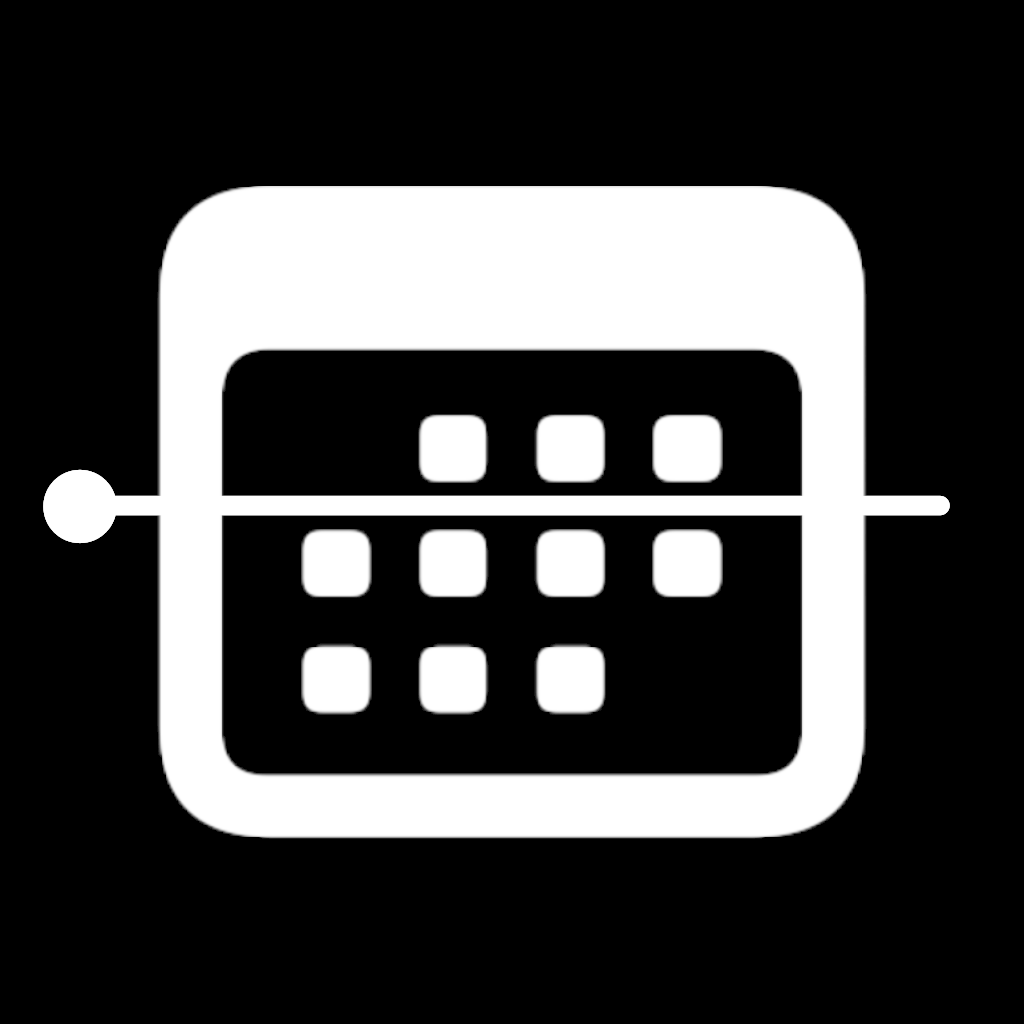
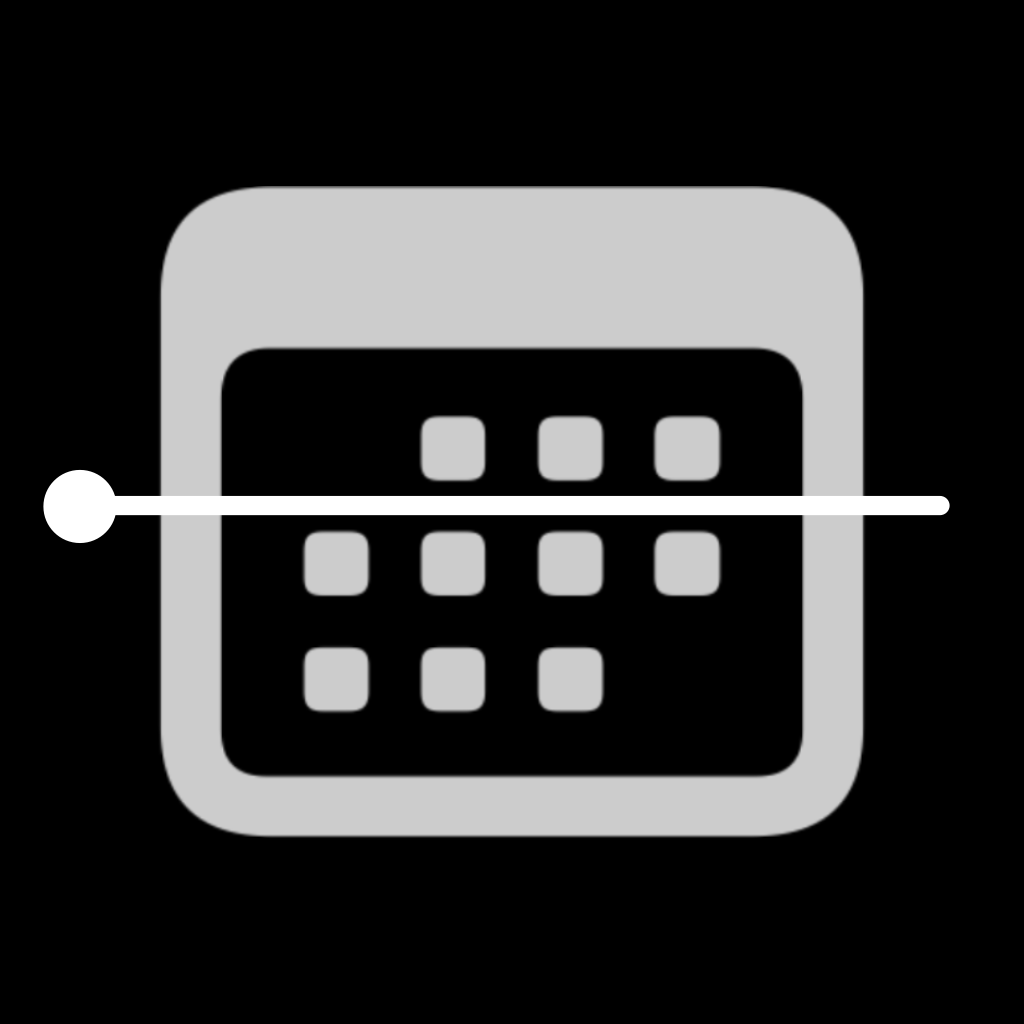
Allow days that cross midnight and align all-day chips with hour labels
- Day end earlier than day start now means the next day (e.g. 9:00 to
  2:00); only equal start and end are rejected. The night tail still
  belongs to the previous day, and events are fetched up to day end
- Columns fall back to minute boundaries when the day has fewer hours
  than columns
- All-day chips start flush with two-digit hour labels; content shifts
  left so the chip inset matches the top inset
- In Double Today the cursor dot sits a third of a label width further
  right
- New tinted iOS icon with translucency

diff --git a/Widget/TodayCalendarWidgetExtension.swift b/Widget/TodayCalendarWidgetExtension.swift
@@ -12,6 +12,9 @@ struct DayEntry: TimelineEntry {
     /// Когда виджет последний раз прочитал календарь (nil — данные-заглушка).
     var fetchedAt: Date? = nil
 
+    /// Начало суток, которые показывает виджет (с учётом дня, заходящего за полночь).
+    var anchor: Date { config.anchor(for: date) }
+
     /// События, которые видны в момент `date`: без all-day, если они скрыты,
     /// и без прошедших из «скрываемых» календарей.
     var visibleEvents: [DayEvent] {
@@ -31,7 +34,7 @@ struct Provider: AppIntentTimelineProvider {
         let now = Date()
         let config = configuration.dayConfig
         if CalendarData.hasAccess {
-            let events = CalendarData.todayEvents(store: EKEventStore(), now: now, calendarIDs: config.calendarIDs)
+            let events = Self.events(config: config, now: now)
             return DayEntry(date: now, events: events, hasAccess: true, config: config, fetchedAt: now)
         }
         return DayEntry(date: now, events: SampleData.events, hasAccess: context.isPreview, config: config)
@@ -44,9 +47,10 @@ struct Provider: AppIntentTimelineProvider {
         let cal = Calendar.current
         let config = configuration.dayConfig
         let hasAccess = CalendarData.hasAccess
-        let events = hasAccess ? CalendarData.todayEvents(store: EKEventStore(), now: now, calendarIDs: config.calendarIDs) : []
+        let events = hasAccess ? Self.events(config: config, now: now) : []
         let minuteStart = cal.dateInterval(of: .minute, for: now)?.start ?? now
-        let nextDay = cal.date(byAdding: .day, value: 1, to: cal.startOfDay(for: now))!
+        // Следующие сутки начинаются, когда закончились текущие (с ночным хвостом).
+        let nextDay = config.fetchRange(anchor: config.anchor(for: now)).to
 
         var entries = [DayEntry(date: now, events: events, hasAccess: hasAccess, config: config, fetchedAt: now)]
         for i in 1...60 {
@@ -56,6 +60,13 @@ struct Provider: AppIntentTimelineProvider {
         }
         let reloadAt = min(now.addingTimeInterval(15 * 60), nextDay)
         return Timeline(entries: entries, policy: .after(reloadAt))
+    }
+
+    private static func events(config: DayConfig, now: Date) -> [DayEvent] {
+        let anchor = config.anchor(for: now)
+        let range = config.fetchRange(anchor: anchor)
+        return CalendarData.events(store: EKEventStore(), anchor: anchor, from: range.from, to: range.to,
+                                   calendarIDs: config.calendarIDs)
     }
 }
 
@@ -76,10 +87,12 @@ struct PlacedEvent: Identifiable {
 
 enum Layout {
     static let columnSpacing: CGFloat = 14
+    /// Где начинается видимая часть двузначной подписи часа (10 pt, правый край на 16 pt)
+    /// относительно левого края колонки. По ней выравниваются all-day плашки.
+    static let labelInset: CGFloat = 3.7
+    /// Видимая ширина двузначной подписи часа.
+    static let labelWidth: CGFloat = 11.5
 
-    static func date(hour: Int, on day: Date) -> Date {
-        Calendar.current.date(byAdding: .hour, value: hour, to: Calendar.current.startOfDay(for: day))!
-    }
 
     /// Раскладывает события колонки по дорожкам, чтобы пересекающиеся стояли рядом.
     static func place(_ events: [DayEvent], from: Date, to: Date) -> [PlacedEvent] {
@@ -158,7 +171,9 @@ struct DayView: View {
                         if idx == 0 {
                             AllDayList(events: entry.visibleEvents.filter(\.isAllDay), config: entry.config, mode: renderingMode)
                         }
-                        ColumnView(entry: entry, startHour: col.start, endHour: col.end, mode: renderingMode)
+                        // В двух колонках кружок курсора чуть правее — на треть ширины подписи часа.
+                        ColumnView(entry: entry, startMinute: col.start, endMinute: col.end, mode: renderingMode,
+                                   cursorX: columnCount == 2 ? -5 + Layout.labelWidth / 3 : -5)
                         // Под концом дня — давность последней синхронизации; последняя колонка сжимается.
                         // Подпись стоит у самого низа контента, от линии конца дня её отделяет тот же отступ.
                         if showsSync, let fetchedAt = staleSince {
@@ -172,6 +187,8 @@ struct DayView: View {
                     .frame(maxWidth: .infinity, maxHeight: .infinity, alignment: .top)
                 }
             }
+            // Контент сдвинут влево, чтобы отступ слева до плашек равнялся отступу сверху.
+            .padding(.leading, -Layout.labelInset)
         }
     }
 }
@@ -258,20 +275,23 @@ struct AllDayList: View {
                 }
             }
             .padding(.bottom, 12)
+            // Левый край плашек — вровень с двузначными цифрами часов.
+            .padding(.leading, Layout.labelInset)
         }
     }
 }
 
 struct ColumnView: View {
     let entry: DayEntry
-    let startHour: Int
-    let endHour: Int
+    /// Границы колонки в минутах от начала суток (могут заходить на следующие сутки).
+    let startMinute: Int
+    let endMinute: Int
     let mode: WidgetRenderingMode
+    /// Центр кружка курсора относительно левого края колонки (левее цифр часов).
+    let cursorX: CGFloat
 
     private let gutter: CGFloat = 20
     private let labelHeight: CGFloat = 12
-    /// Центр кружка курсора относительно левого края колонки (левее цифр часов).
-    private let cursorX: CGFloat = -5
     private let cursorDot: CGFloat = 9
     /// На сколько перенесённое событие заходит за границу колонки — до края цифр часа.
     private let overshoot: CGFloat = 7
@@ -285,8 +305,8 @@ struct ColumnView: View {
 
     var body: some View {
         GeometryReader { geo in
-            let from = Layout.date(hour: startHour, on: entry.date)
-            let to = Layout.date(hour: endHour, on: entry.date)
+            let from = DayConfig.date(minute: startMinute, anchor: entry.anchor)
+            let to = DayConfig.date(minute: endMinute, anchor: entry.anchor)
             // Сверху оставляем место под подпись первого часа.
             let top = labelHeight / 2
             let height = max(geo.size.height - top - 1, 1)
@@ -296,8 +316,8 @@ struct ColumnView: View {
 
             ZStack(alignment: .topLeading) {
                 // Часовая сетка
-                ForEach(startHour...endHour, id: \.self) { h in
-                    let yy = top + CGFloat(h - startHour) / CGFloat(endHour - startHour) * height
+                ForEach(Array(stride(from: (startMinute + 59) / 60, through: endMinute / 60, by: 1)), id: \.self) { h in
+                    let yy = top + CGFloat(h * 60 - startMinute) / CGFloat(endMinute - startMinute) * height
                     Text("\(h % 24)")
                         .font(.system(size: 10, weight: .semibold).monospacedDigit())
                         .foregroundStyle(labelStyle)

diff --git a/Shared/CalendarData.swift b/Shared/CalendarData.swift
@@ -1,9 +1,10 @@
 import EventKit
 import Foundation
 
-/// Настройки отображения дня (часы, 24 = полночь).
+/// Настройки отображения дня.
 struct DayConfig {
-    /// Границы таймлайна; колонки делят этот промежуток поровну.
+    /// Границы таймлайна в часах (0...24); колонки делят этот промежуток поровну.
+    /// Конец раньше начала означает следующие сутки: 9 → 2 — с 9:00 до 2:00 ночи.
     var dayStart = 6
     var dayEnd = 24
     /// nil — все календари.
@@ -19,14 +20,42 @@ struct DayConfig {
     /// Календари, чьи события (включая all-day) приглушены всегда.
     var dimCalendarIDs: Set<String> = []
 
-    /// Делит день на `count` колонок поровну; дробные границы округляются вниз.
-    /// Конец дня 0 = полночь (24). Если промежуток короче числа колонок или
-    /// конец не позже начала, берётся 6–24.
+    /// Границы дня в минутах от начала суток; конец может быть больше 24 часов.
+    /// Начало и конец должны различаться (0 → 24 — целые сутки); иначе 6:00–24:00.
+    var bounds: (start: Int, end: Int) {
+        guard (0...24).contains(dayStart), (0...24).contains(dayEnd) else { return (6 * 60, 24 * 60) }
+        let start = dayStart % 24
+        let end = dayEnd > start ? dayEnd : dayEnd + 24
+        if end - start >= 24 && !(start == 0 && dayEnd == 24) { return (6 * 60, 24 * 60) }
+        return (start * 60, end * 60)
+    }
+
+    /// Делит день на `count` колонок поровну (в минутах от начала суток). Границы
+    /// округляются вниз до часа; если часов меньше, чем колонок, — до минуты.
     func columns(count: Int) -> [(start: Int, end: Int)] {
-        var (start, end) = (dayStart, dayEnd == 0 ? 24 : dayEnd)
-        if !(0...24).contains(start) || !(0...24).contains(end) || end - start < count { (start, end) = (6, 24) }
-        let b = (0...count).map { start + (end - start) * $0 / count }
+        let (start, end) = bounds
+        let hours = (end - start) / 60
+        let b = (0...count).map { hours >= count ? start + hours * $0 / count * 60 : start + (end - start) * $0 / count }
         return zip(b, b.dropFirst()).map { ($0, $1) }
+    }
+
+    /// Начало суток, к которым относится момент `now`. Если день заходит за полночь
+    /// и сейчас ещё его ночной хвост, это вчерашние сутки.
+    func anchor(for now: Date) -> Date {
+        let cal = Calendar.current
+        let today = cal.startOfDay(for: now)
+        let tailEnd = cal.date(byAdding: .minute, value: max(bounds.end - 24 * 60, 0), to: today)!
+        return now < tailEnd ? cal.date(byAdding: .day, value: -1, to: today)! : today
+    }
+
+    /// Момент `minute` минут от начала суток `anchor`.
+    static func date(minute: Int, anchor: Date) -> Date {
+        Calendar.current.date(byAdding: .minute, value: minute, to: anchor)!
+    }
+
+    /// Промежуток, за который нужны события: сутки дня плюс ночной хвост, если он есть.
+    func fetchRange(anchor: Date) -> (from: Date, to: Date) {
+        (anchor, Self.date(minute: max(bounds.end, 24 * 60), anchor: anchor))
     }
 
     func isDimmed(_ ev: DayEvent, now: Date) -> Bool {
@@ -50,10 +79,21 @@ enum CalendarData {
         EKEventStore.authorizationStatus(for: .event) == .fullAccess
     }
 
-    static func todayEvents(store: EKEventStore, now: Date = Date(), calendarIDs: Set<String>? = nil) -> [DayEvent] {
-        let cal = Calendar.current
-        let dayStart = cal.startOfDay(for: now)
-        let dayEnd = cal.date(byAdding: .day, value: 1, to: dayStart)!
+    /// События дня с началом суток `anchor`: обычные — пересекающие `from...to`,
+    /// all-day — только самих суток `anchor` (не завтрашние из ночного хвоста).
+    static func events(store: EKEventStore, anchor: Date, from: Date, to: Date, calendarIDs: Set<String>? = nil) -> [DayEvent] {
+        let anchorEnd = Calendar.current.date(byAdding: .day, value: 1, to: anchor)!
+        return fetch(store: store, from: from, to: to, calendarIDs: calendarIDs)
+            .filter { !$0.isAllDay || ($0.start < anchorEnd && $0.end > anchor) }
+    }
+
+    /// События сегодня и завтра — для отслеживания изменений.
+    static func upcomingEvents(store: EKEventStore, now: Date = Date()) -> [DayEvent] {
+        let today = Calendar.current.startOfDay(for: now)
+        return fetch(store: store, from: today, to: Calendar.current.date(byAdding: .day, value: 2, to: today)!, calendarIDs: nil)
+    }
+
+    private static func fetch(store: EKEventStore, from dayStart: Date, to dayEnd: Date, calendarIDs: Set<String>?) -> [DayEvent] {
         let calendars = calendarIDs.map { ids in store.calendars(for: .event).filter { ids.contains($0.calendarIdentifier) } }
         if let calendars, calendars.isEmpty { return [] }
         let predicate = store.predicateForEvents(withStart: dayStart, end: dayEnd, calendars: calendars)

diff --git a/scripts/make-icons.swift b/scripts/make-icons.swift
@@ -1,8 +1,6 @@
-// Готовит иконки из исходников в Icons/:
-//   icon-ios.png                → icon-macos.png (форма macOS: скругление, поля, тень)
-//   icon-ios-tinted-source.png  → icon-ios-tinted.png (инверсия: светлый значок на чёрном)
+// Готовит Mac-иконку из iOS-иконки в Icons/:
+//   icon-ios.png → icon-macos.png (форма macOS: скругление, поля, тень)
 import AppKit
-import CoreImage
 
 func load(_ path: String) -> CGImage {
     let img = NSImage(contentsOfFile: path)!
@@ -33,10 +31,3 @@ mac.restoreGState()
 mac.addPath(shape); mac.clip()
 mac.draw(load("\(dir)/icon-ios.png"), in: body)
 save(mac.makeImage()!, "\(dir)/icon-macos.png")
-
-// iOS Tinted: система красит светлое, поэтому чёрный значок на белом инвертируется.
-let inverted = CIImage(cgImage: load("\(dir)/icon-ios-tinted-source.png")).applyingFilter("CIColorInvert")
-let tinted = CIContext().createCGImage(inverted, from: CGRect(x: 0, y: 0, width: 1024, height: 1024))!
-let flat = context()
-flat.draw(tinted, in: CGRect(x: 0, y: 0, width: 1024, height: 1024))
-save(flat.makeImage()!, "\(dir)/icon-ios-tinted.png")

diff --git a/App/AppDelegate.swift b/App/AppDelegate.swift
@@ -48,7 +48,7 @@ final class AppDelegate: NSObject, NSApplicationDelegate {
     /// Перезагружает виджет, если события изменились, и не реже раза в 15 минут —
     /// чтобы виджет считал данные свежими и не показывал подпись «N min ago».
     private func refresh(force: Bool) {
-        let fingerprint = CalendarData.fingerprint(CalendarData.todayEvents(store: store))
+        let fingerprint = CalendarData.fingerprint(CalendarData.upcomingEvents(store: store))
         let stale = Date().timeIntervalSince(lastReload) >= 15 * 60
         guard force || stale || fingerprint != lastFingerprint else { return }
         lastFingerprint = fingerprint

diff --git a/Widget/ConfigurationIntent.swift b/Widget/ConfigurationIntent.swift
@@ -108,7 +108,7 @@ struct DayConfigurationIntent: WidgetConfigurationIntent {
     @Parameter(title: "Day start", default: .h6)
     var dayStartHour: Hour
 
-    @Parameter(title: "Day end", description: "0:00 or 24:00 means midnight", default: .h24)
+    @Parameter(title: "Day end", description: "Earlier than Day start means the next day", default: .h24)
     var dayEndHour: Hour
 
     @Parameter(title: "Hide All-day Events", default: false)
